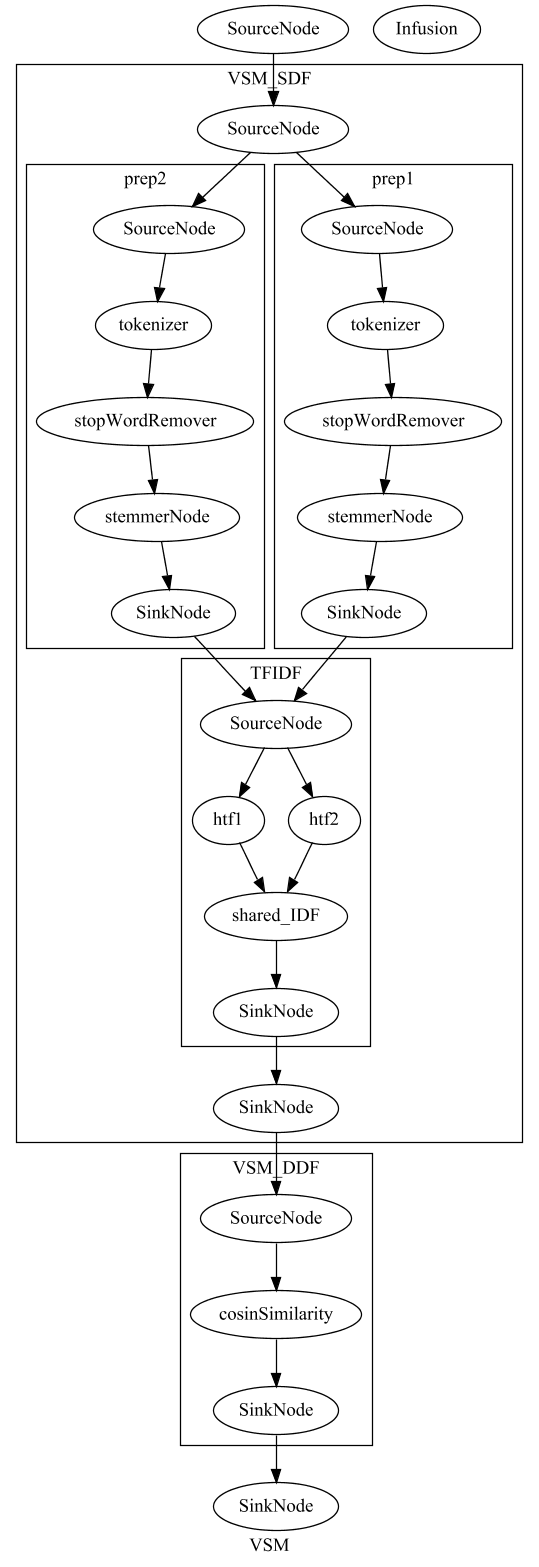
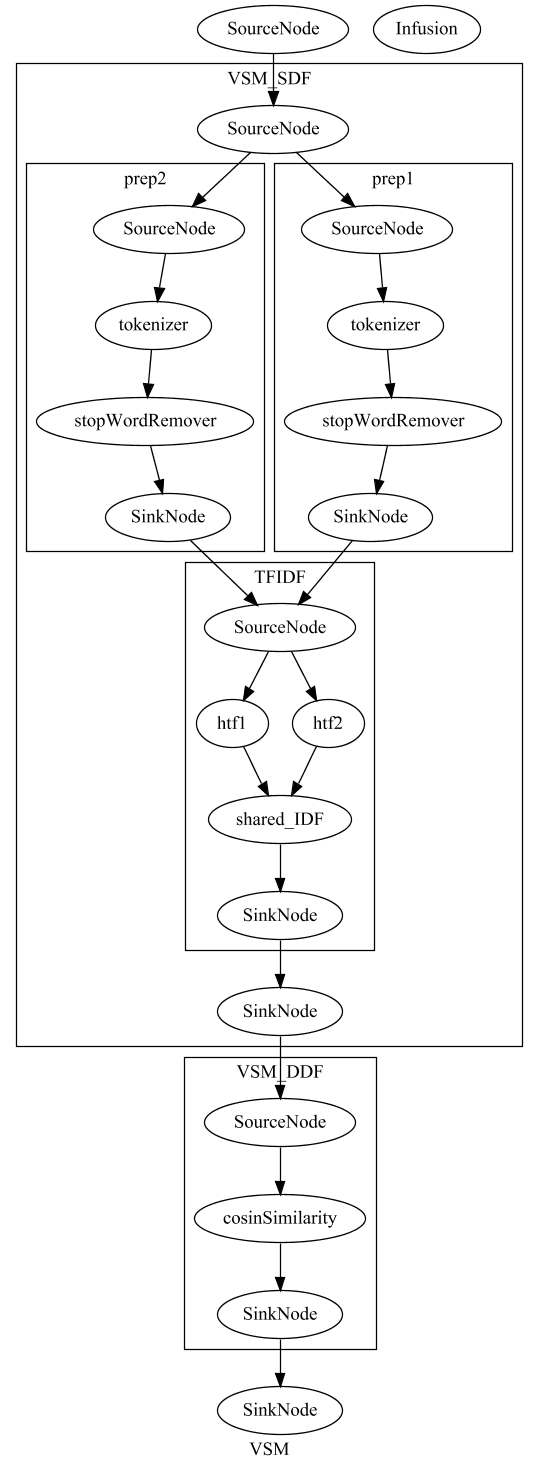
backup

Changed region(s): [[0.0297, 0.0, 0.9796, 1.0], [0.0297, 0.3671, 0.0594, 0.4283], [0.9202, 0.3671, 0.9499, 0.3977]]

diff --git a/src/test/java/BuildingBlockTest.java b/src/test/java/BuildingBlockTest.java
@@ -3,11 +3,19 @@ import buildingBlocks.preprocessor.NGramPreprocessPipeline;
 import buildingBlocks.text2TFIDF.Text2LDAPipeline;
 import buildingBlocks.text2TFIDF.Text2NGramTFIDFPipeline;
 import buildingBlocks.text2TFIDF.Text2TFIDFPipeline;
+import buildingBlocks.traceTasks.NGramVSMTraceTask;
+import buildingBlocks.traceTasks.VSMTraceBuilder;
+import core.SparkTraceTask;
 import core.graphPipeline.basic.SGraph;
 import examples.TestBase;
 import org.apache.spark.sql.Dataset;
 import org.apache.spark.sql.Row;
+import org.junit.Before;
 import org.junit.Test;
+import traceability.TraceDatasetFactory;
+import traceability.components.maven.MavenCommit;
+import traceability.components.maven.MavenImprovement;
+import traceability.components.maven.MavenLink;
 
 import java.util.HashMap;
 import java.util.Map;
@@ -17,9 +25,22 @@ import java.util.Map;
  */
 public class BuildingBlockTest extends TestBase {
     private static final String masterUrl = "local";
+    Dataset<MavenCommit> commits;
+    Dataset<MavenImprovement> improvements;
+    Dataset<MavenLink> links;
 
     public BuildingBlockTest() {
         super(masterUrl);
+    }
+
+    @Before
+    public void runSparkTestWithMavenData() {
+        String commitPath = "src/main/resources/maven_sample/commits.csv";
+        String improvementPath = "src/main/resources/maven_sample/improvement.csv";
+        String linkPath = "src/main/resources/maven_sample/improvementCommitLinks.csv";
+        commits = TraceDatasetFactory.createDatasetFromCSV(sparkSession, commitPath, MavenCommit.class);
+        improvements = TraceDatasetFactory.createDatasetFromCSV(sparkSession, improvementPath, MavenImprovement.class);
+        links = TraceDatasetFactory.createDatasetFromCSV(sparkSession, linkPath, MavenLink.class);
     }
 
     @Test
@@ -79,6 +100,19 @@ public class BuildingBlockTest extends TestBase {
         config.put("text2", "text2");
         graph.setConfig(config);
         graph.toPipeline().fit(getMultiSentenceRowData()).transform(getMultiSentenceRowData()).show(false);
+    }
+
+    @Test
+    public void ngramVSMTask() throws Exception {
+        SparkTraceTask vsmTask = new NGramVSMTraceTask().getTask("s_id", "t_id");
+        Map<String, String> vsmTaskInputConfig = getVSMTaskConfig();
+        vsmTask.setConfig(vsmTaskInputConfig);
+        vsmTask.initSTT();
+        vsmTask.infuse();
+        vsmTask.optimize(vsmTask);
+        vsmTask.train(commits, improvements, null);
+        Dataset<Row> result = vsmTask.trace(commits, improvements);
+        result.show();
     }
 
 }

diff --git a/src/main/java/buildingBlocks/traceTasks/NGramVSMTraceTask.java b/src/main/java/buildingBlocks/traceTasks/NGramVSMTraceTask.java
@@ -1,7 +1,45 @@
 package buildingBlocks.traceTasks;
 
+import buildingBlocks.text2TFIDF.Text2NGramTFIDFPipeline;
+import buildingBlocks.text2TFIDF.Text2TFIDFPipeline;
+import buildingBlocks.vecSimilarityPipeline.SparseCosinSimilarityPipeline;
+import core.SparkTraceTask;
+import core.graphPipeline.basic.SGraph;
+
 /**
  *
  */
-public class NGramVSMTraceTask {
+public class NGramVSMTraceTask implements TraceTaskBuilder {
+    @Override
+    public SGraph createSDF() throws Exception {
+        SGraph graph = Text2NGramTFIDFPipeline.getGraph("NGramVSM_SDF");//text1,2 = "ngram-tf-idf1,2"
+        graph.assignTypeToOutputField("ngram-tf-idf1", SGraph.SDFType.SOURCE_SDF);
+        graph.assignTypeToOutputField("ngram-tf-idf2", SGraph.SDFType.TARGET_SDF);
+        return graph;
+    }
+
+    @Override
+    public SGraph createDDF() throws Exception {
+        return SparseCosinSimilarityPipeline.getGraph("NGramVSM_DDF"); //vec1,2 - cosin_sim
+    }
+
+    @Override
+    public SparkTraceTask connectTask(SparkTraceTask task) throws Exception {
+        task.connect(task.sourceNode, "s_text", task.getSdfGraph(), "text1");
+        task.connect(task.sourceNode, "t_text", task.getSdfGraph(), "text2");
+        task.connect(task.getSdfGraph(), "ngram-tf-idf1", task.getDdfGraph(), "vec1");
+        task.connect(task.getSdfGraph(), "ngram-tf-idf2", task.getDdfGraph(), "vec2");
+        task.connect(task.getDdfGraph(), "cosin_sim", task.sinkNode, "ngram_vsm_sim");
+        return task;
+    }
+
+    @Override
+    public SparkTraceTask getTask(String sourceId, String targetId) throws Exception {
+        SparkTraceTask task = new SparkTraceTask(createSDF(), createDDF(), sourceId, targetId);
+        task.setId("NGramVSM");
+        task.addInputField("s_text").addInputField("t_text");
+        task.addOutputField("ngram_vsm_sim");
+        connectTask(task);
+        return task;
+    }
 }

diff --git a/src/main/java/buildingBlocks/preprocessor/EnglishPreprocess.java b/src/main/java/buildingBlocks/preprocessor/EnglishPreprocess.java
@@ -26,19 +26,20 @@ public class EnglishPreprocess {
         removerNode.addInputField("tokens");
         removerNode.addOutputField("cleanTokens");
 
-        Stemmer stemmer = new Stemmer();
-        SNode stemmerNode = new SNode(new NullRemoverModelSingleIO(stemmer), "stemmerNode");
-        stemmerNode.addInputField("cleanTokens");
-        stemmerNode.addOutputField("stemTokens");
+//        Stemmer stemmer = new Stemmer();
+//        SNode stemmerNode = new SNode(new NullRemoverModelSingleIO(stemmer), "stemmerNode");
+//        stemmerNode.addInputField("cleanTokens");
+//        stemmerNode.addOutputField("stemTokens");
 
         graph.addNode(tkNode);
         graph.addNode(removerNode);
-        graph.addNode(stemmerNode);
+//        graph.addNode(stemmerNode);
 
         graph.connect(graph.sourceNode, "text", tkNode, "text");
         graph.connect(tkNode, "tokens", removerNode, "tokens");
-        graph.connect(removerNode, "cleanTokens", stemmerNode, "cleanTokens");
-        graph.connect(stemmerNode, "stemTokens", graph.sinkNode, "cleanTokens");
+//        graph.connect(removerNode, "cleanTokens", stemmerNode, "cleanTokens");
+//        graph.connect(stemmerNode, "stemTokens", graph.sinkNode, "cleanTokens");
+        graph.connect(removerNode, "cleanTokens", graph.sinkNode, "cleanTokens");
         return graph;
     }
 }

diff --git a/src/main/java/buildingBlocks/traceTasks/VSMTraceBuilder.java b/src/main/java/buildingBlocks/traceTasks/VSMTraceBuilder.java
@@ -5,9 +5,6 @@ import buildingBlocks.vecSimilarityPipeline.SparseCosinSimilarityPipeline;
 import core.SparkTraceTask;
 import core.graphPipeline.basic.SGraph;
 
-import java.util.HashMap;
-import java.util.Map;
-
 /**
  *
  */
@@ -26,7 +23,7 @@ public class VSMTraceBuilder implements TraceTaskBuilder {
     }
 
     @Override
-    public SparkTraceTask connectSDFToDDF(SparkTraceTask task) throws Exception {
+    public SparkTraceTask connectTask(SparkTraceTask task) throws Exception {
         task.connect(task.sourceNode, "s_text", task.getSdfGraph(), "text1");
         task.connect(task.sourceNode, "t_text", task.getSdfGraph(), "text2");
         task.connect(task.getSdfGraph(), "tf-idf1", task.getDdfGraph(), "vec1");
@@ -41,7 +38,7 @@ public class VSMTraceBuilder implements TraceTaskBuilder {
         task.setId("VSM");
         task.addInputField("s_text").addInputField("t_text");
         task.addOutputField("vsm_sim");
-        connectSDFToDDF(task);
+        connectTask(task);
         return task;
     }
 }

diff --git a/src/main/java/featurePipelineStages/SGraphColumnRemovalStage.java b/src/main/java/featurePipelineStages/SGraphColumnRemovalStage.java
@@ -26,9 +26,12 @@ public class SGraphColumnRemovalStage extends Transformer implements HasInputCol
     @Override
     public Dataset<Row> transform(Dataset<?> dataset) {
         String[] cols = getInputCols();
+        StringBuilder sb = new StringBuilder(",");
         for (String colName : cols) {
             dataset = dataset.drop(colName);
+            sb.append(colName);
         }
+        Logger.getLogger("column remover").info("removing column " + sb.toString());
         return (Dataset<Row>) dataset;
     }
 
@@ -37,7 +40,6 @@ public class SGraphColumnRemovalStage extends Transformer implements HasInputCol
         String[] cols = getInputCols();
         for (String colName : cols) {
             //assert structType.contains(colName);
-            Logger.getLogger("column remover").info("removing column " + colName);
             structType.drop(structType.fieldIndex(colName));
         }
         return structType;

diff --git a/src/main/java/featurePipelineStages/cacheStage/CacheStage.java b/src/main/java/featurePipelineStages/cacheStage/CacheStage.java
@@ -1,0 +1,34 @@
+package featurePipelineStages.cacheStage;
+
+import org.apache.spark.ml.Transformer;
+import org.apache.spark.ml.param.ParamMap;
+import org.apache.spark.sql.Dataset;
+import org.apache.spark.sql.Row;
+import org.apache.spark.sql.types.StructType;
+
+/**
+ *
+ */
+public class CacheStage extends Transformer {
+    private static final long serialVersionUID = 7009635289538569421L;
+
+    @Override
+    public Dataset<Row> transform(Dataset<?> dataset) {
+        return (Dataset<Row>) dataset.cache();
+    }
+
+    @Override
+    public StructType transformSchema(StructType structType) {
+        return structType;
+    }
+
+    @Override
+    public Transformer copy(ParamMap paramMap) {
+        return defaultCopy(paramMap);
+    }
+
+    @Override
+    public String uid() {
+        return String.valueOf(serialVersionUID);
+    }
+}

diff --git a/src/main/java/featurePipelineStages/NullRemoveWrapper/NullRemoverModelSingleIO.java b/src/main/java/featurePipelineStages/NullRemoveWrapper/NullRemoverModelSingleIO.java
@@ -11,6 +11,8 @@ import org.apache.spark.sql.Dataset;
 import org.apache.spark.sql.Row;
 import org.apache.spark.sql.types.StructType;
 
+import java.util.logging.Logger;
+
 import static org.apache.spark.sql.functions.col;
 import static org.apache.spark.sql.functions.lit;
 
@@ -35,6 +37,7 @@ public class NullRemoverModelSingleIO extends Model<NullRemoverModelSingleIO> im
 
     @Override
     public Dataset<Row> transform(Dataset<?> dataset) {
+        Logger.getLogger(this.getClass().getName()).info(String.format("running nullremover with inner stage {}".format(innerTransformer.getClass().getName())));
         Dataset<Row> inputDataset = dataset.toDF();
         Dataset<Row> inputNoNull = inputDataset.where(col(getInputCol()).isNotNull());
         Dataset<Row> inputHasNull = inputDataset.where(col(getInputCol()).isNull());

diff --git a/src/main/java/core/graphPipeline/basic/SGraph.java b/src/main/java/core/graphPipeline/basic/SGraph.java
@@ -244,6 +244,7 @@ public class SGraph extends Vertex implements SDFInterface {
         Map<IOTableCell, Integer> demandTable = getDemandTable();
         for (Vertex node : topSortNodes) {
             stages.add(node.toPipeline());
+            //Add column clean stages
             if (!node.equals(sinkNode) && cleanColumns) {
                 for (IOTableCell targetCell : node.getInputTable().getCells()) {
                     for (IOTableCell sourceCell : targetCell.getInputSource()) {
@@ -490,7 +491,6 @@ public class SGraph extends Vertex implements SDFInterface {
                     vNode = createVizEdge(vNode, outputNode);
                 }
                 g.add(vNode);
-
             } else {
                 SGraph v = (SGraph) vertex;
                 MutableGraph subGraph = v.getVizGraph();

diff --git a/src/main/java/featurePipelineStages/InfusionStage/InfusionStage.java b/src/main/java/featurePipelineStages/InfusionStage/InfusionStage.java
@@ -70,7 +70,7 @@ public class InfusionStage extends Transformer implements InfusionStageParam {
         }
     }
 
-    private Dataset<Row> getSourceSDFFeatureVecs(Dataset<Row> mixedSDFeatureVecs)  {
+    private Dataset<Row> getSourceSDFFeatureVecs(Dataset<Row> mixedSDFeatureVecs) {
         Set<String> sourceSDFCols = sdfGraph.getSourceSDFOutput();
         String sourceIdColName = getSourceIdCol();
         sourceSDFCols.add(sourceIdColName);

diff --git a/src/main/java/featurePipelineStages/UnsupervisedStage/UnsupervisedStageModel.java b/src/main/java/featurePipelineStages/UnsupervisedStage/UnsupervisedStageModel.java
@@ -31,6 +31,7 @@ public class UnsupervisedStageModel extends Model<UnsupervisedStageModel> implem
     @Override
     public Dataset<Row> transform(Dataset<?> dataset) {
         transformSchema(dataset.schema());
+        Logger.getLogger(this.getClass().getName()).info("running unsupervised stage");
         int length = getInputCols().length;
         for (int i = 0; i < length; i++) {
             String inputColName = getInputCols()[i];

diff --git a/src/test/java/SGraphTest.java b/src/test/java/SGraphTest.java
@@ -4,6 +4,7 @@ import examples.TestBase;
 import featurePipelineStages.SGraphColumnRemovalStage;
 import org.apache.spark.ml.Pipeline;
 import org.apache.spark.ml.PipelineModel;
+import org.apache.spark.ml.PipelineStage;
 import org.apache.spark.ml.feature.HashingTF;
 import org.apache.spark.ml.feature.IDF;
 import org.apache.spark.ml.feature.Tokenizer;

diff --git a/src/main/java/buildingBlocks/traceTasks/TraceTaskBuilder.java b/src/main/java/buildingBlocks/traceTasks/TraceTaskBuilder.java
@@ -11,7 +11,7 @@ public interface TraceTaskBuilder {
 
     SGraph createDDF() throws Exception;
 
-    SparkTraceTask connectSDFToDDF(SparkTraceTask traceTask) throws Exception;
+    SparkTraceTask connectTask(SparkTraceTask traceTask) throws Exception;
 
     SparkTraceTask getTask(String sourceId, String targetId) throws Exception;
 }
